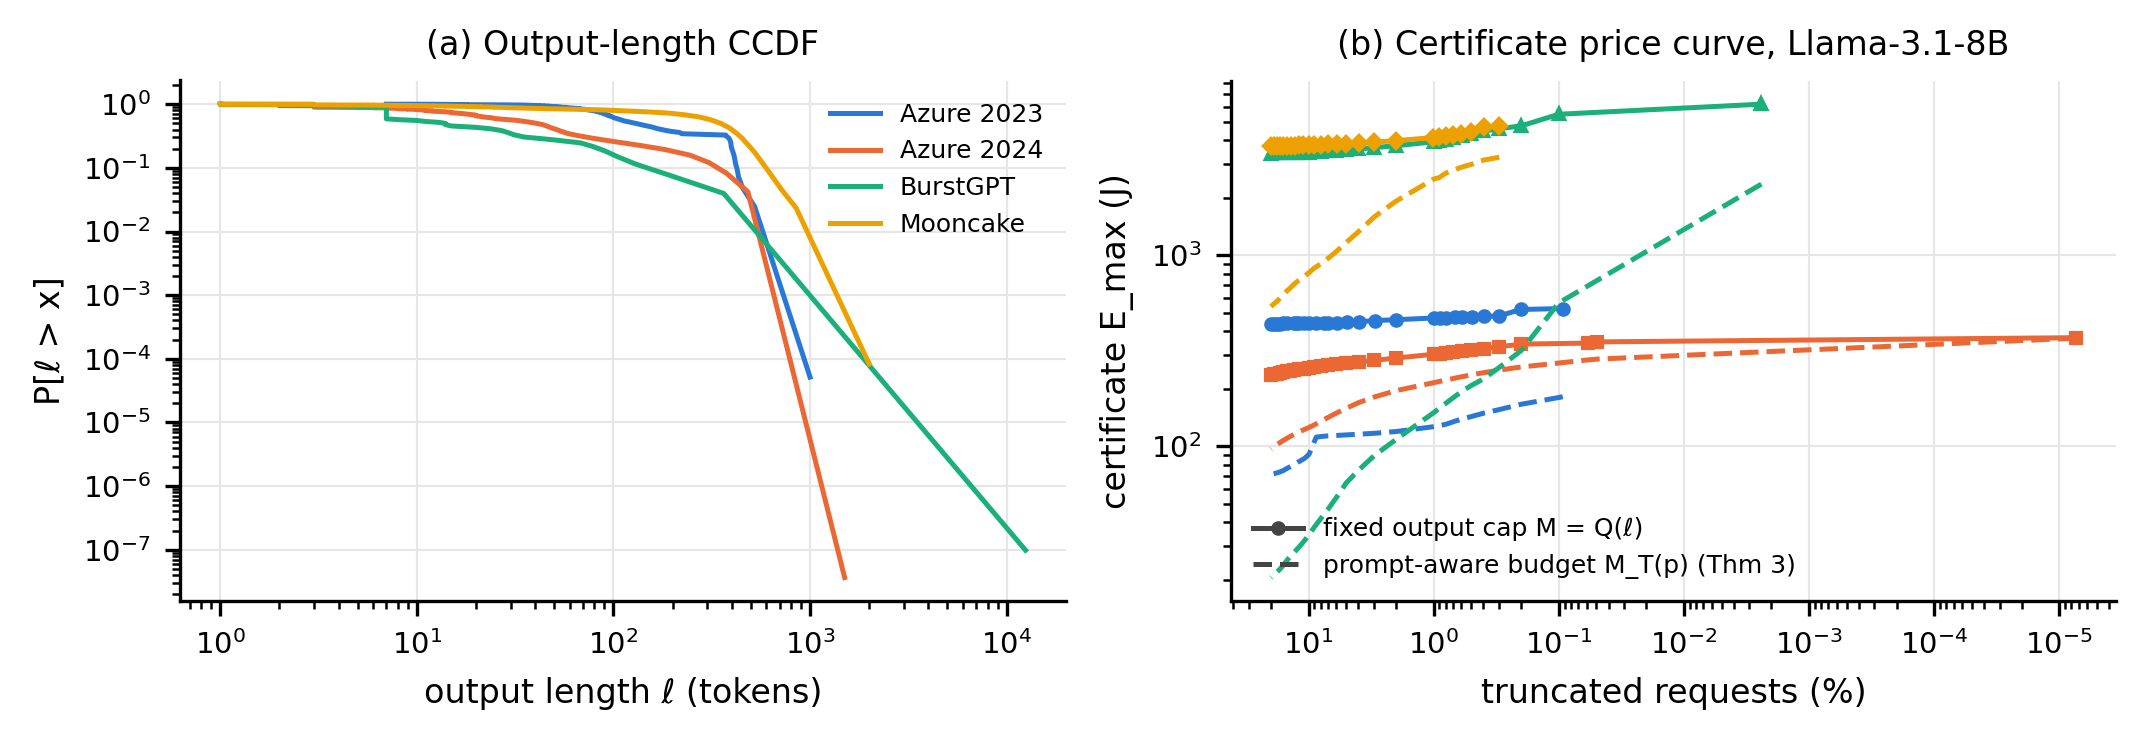
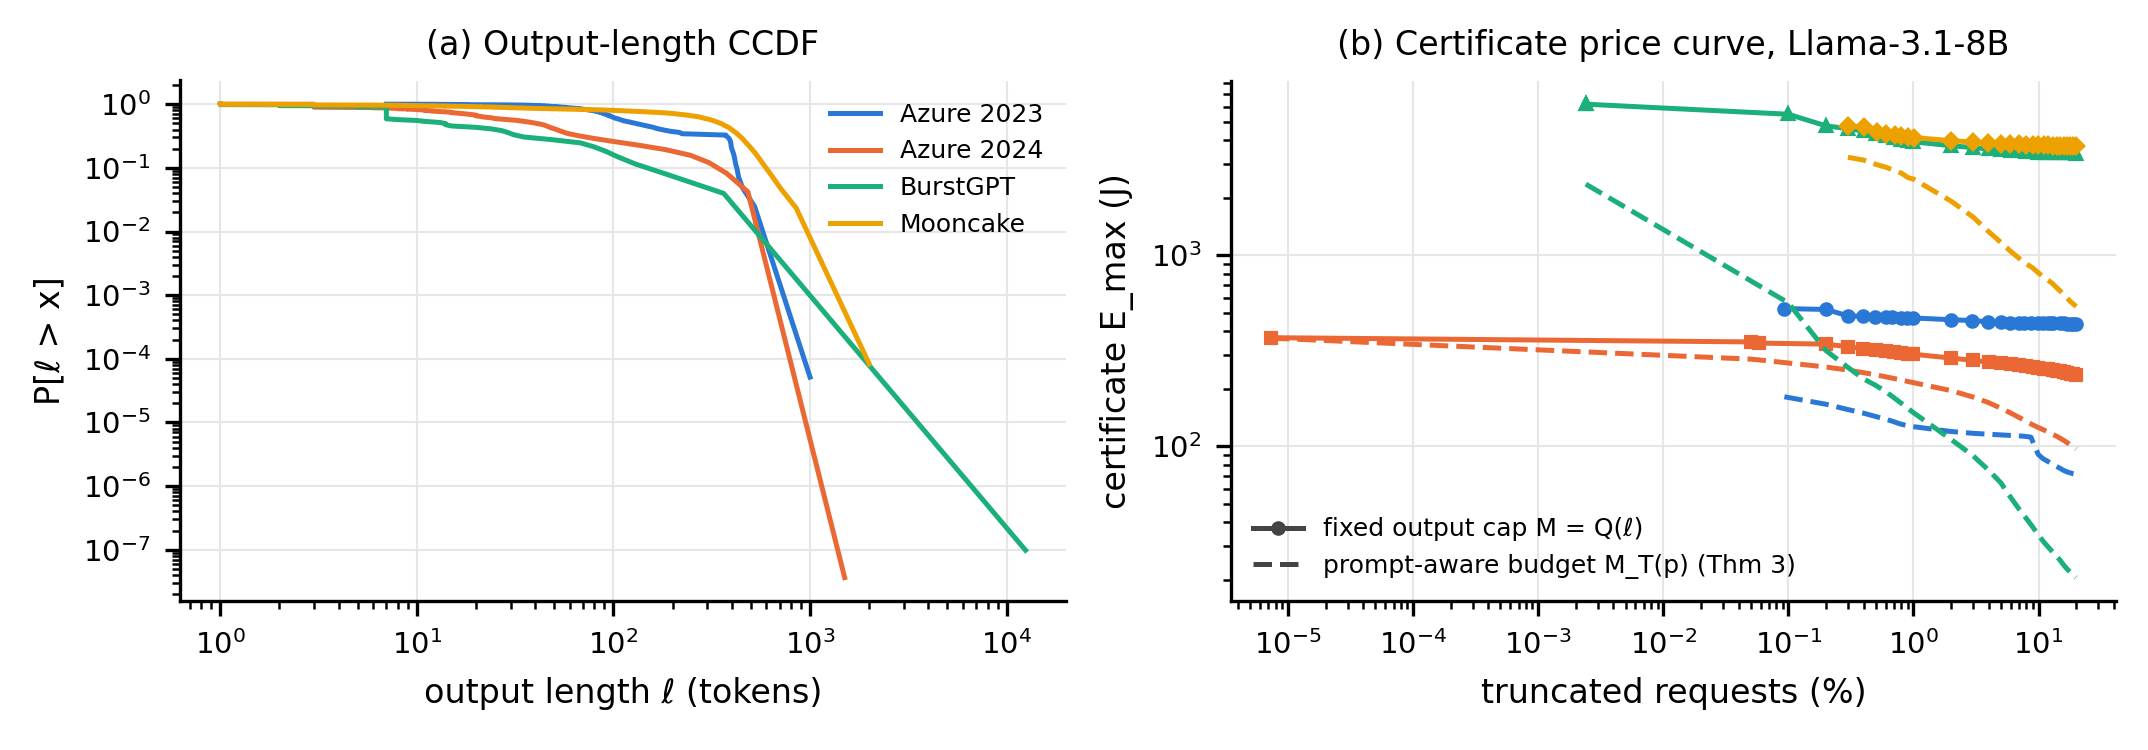
P4: retitle, Fig. 1(b) axis in increasing order (v1.0.1-tsc-submission)
Title changed to the submitted one; Fig. 1(b) x-axis no longer inverted.
results/numbers.json unchanged (SHA-256 5359fd43...c4130a); v1.0.0 tag kept.

diff --git a/code/make_figures.py b/code/make_figures.py
@@ -57,7 +57,6 @@ def fig1() -> None:
     ax[0].set_title("(a) Output-length CCDF"); ax[0].legend(frameon=False)
     ax[1].set_xlabel("truncated requests (%)"); ax[1].set_ylabel("certificate E_max (J)")
     ax[1].set_title("(b) Certificate price curve, Llama-3.1-8B")
-    ax[1].invert_xaxis()
     from matplotlib.lines import Line2D
     ax[1].legend(handles=[Line2D([], [], color="#444", ls="-", marker="o", ms=2.5, label="fixed output cap M = Q(ℓ)"),
                           Line2D([], [], color="#444", ls="--", label="prompt-aware budget M_T(p) (Thm 3)")],

diff --git a/README.md b/README.md
@@ -1,6 +1,6 @@
 # llm-energy-certificates
 
-Artifact for the manuscript *Which Serving Knobs Can Back an Energy SLA? Worst-Case Certificates for LLM-as-a-Service and Their Price on Production Traces* (Dat Lam Quoc, FPT School of Business and Technology (FSB), FPT University; submitted to IEEE Transactions on Services Computing, 2026). It asks which serving knobs give a worst-case energy guarantee per request and per SLA window, and what that guarantee costs on production traces. Submission tag: `v1.0.0-tsc-submission`.
+Artifact for the manuscript *Worst-Case Energy Certificates for LLM-as-a-Service: Which Serving Knobs Back an Energy SLA, and at What Price on Production Traces* (Dat Lam Quoc, FPT School of Business and Technology (FSB), FPT University; submitted to IEEE Transactions on Services Computing, 2026). It asks which serving knobs give a worst-case energy guarantee per request and per SLA window, and what that guarantee costs on production traces. Submission tag: `v1.0.1-tsc-submission` (title change and Fig. 1(b) axis direction; `v1.0.0-tsc-submission` is kept unchanged, and `results/numbers.json` is identical at both tags).
 
 ## What the artifact shows
 
